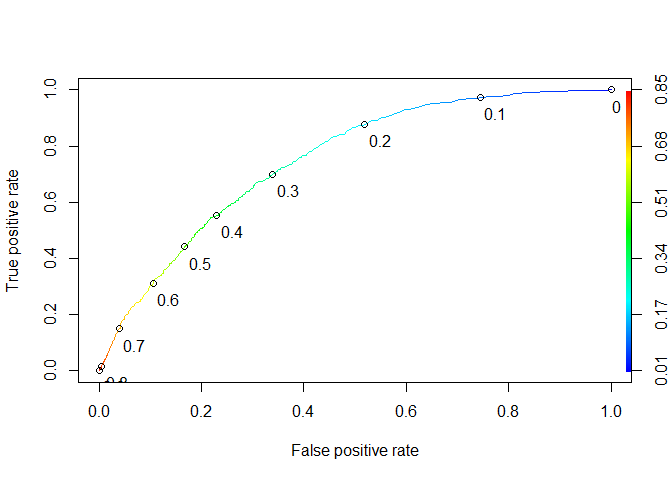
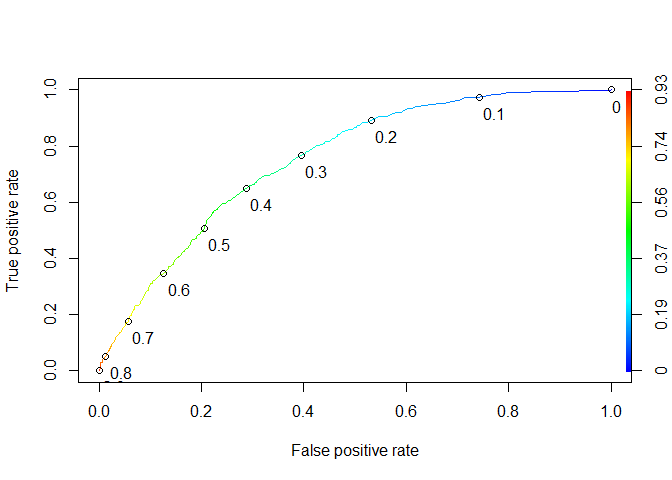
Bug fix

diff --git a/README.md b/README.md
@@ -438,7 +438,7 @@ AUCLog1 <- performance(pred1, measure = 'auc')@y.values[[1]]
 AUCLog1
 ```
 
-    ## [1] 0.7500528
+    ## [1] 0.7471324
 
 Esse não é um resultado ruim, mas vamos ver se podemos fazer melhor com um método diferente.
 
@@ -478,7 +478,7 @@ AUCTree <- performance(pred3, measure = 'auc')@y.values[[1]]
 AUCTree
 ```
 
-    ## [1] 0.7155061
+    ## [1] 0.7115786
 
 O resultado foi pior do que o anterior. E ambos não são resultados satisfatórios, dada a complexidade do nosso modelo de árvore, então, novamente, temos que nos perguntar se não estamos melhor usando o modelo de Regressão Logística mais simples do primeiro modelo.
 
@@ -508,7 +508,7 @@ AUCRF <- performance(pred4, measure = 'auc')@y.values[[1]]
 AUCRF
 ```
 
-    ## [1] 0.7496038
+    ## [1] 0.7510963
 
 Com o esforço extra, ainda assim não obtemos um resultado um tanto melhorado. O modelo de Regressão logística é o melhor desempenho até o momento.
 
@@ -899,7 +899,7 @@ logLik(modelo.completo)
 logLik(LogisticModel.1)
 ```
 
-    ## 'log Lik.' -813.27 (df=14)
+    ## 'log Lik.' -795.2899 (df=14)
 
 ``` r
 logLik(LogisticModel.3)
@@ -919,7 +919,7 @@ extractAIC(modelo.completo)
 extractAIC(LogisticModel.1)
 ```
 
-    ## [1]   14.00 1654.54
+    ## [1]   14.00 1618.58
 
 ``` r
 extractAIC(LogisticModel.3)
@@ -949,8 +949,8 @@ anova(LogisticModel.1,LogisticModel.3)
     ##     serasa_commercial_debts + serasa_protests + marital_status + 
     ##     monthly_payment + purpose + education_level
     ##   Resid. Df Resid. Dev Df Deviance
-    ## 1      1234     720.54            
-    ## 2      1234    1370.45  0  -649.91
+    ## 1      1234     714.58            
+    ## 2      1234    1370.45  0  -655.87
 
 Existem diferenças entre os modelos, então ficamos com aquele com mais parâmetros, o modelo 1, o mais complexo, não podemos abandonar ele pelo mais simples, ja que ele explica muita coisa que o modelo 2 mais simples não deu conta de explicar, mas não podemos esquecer que:
 
@@ -1131,15 +1131,15 @@ coefficients(LogisticModel.1) * 20/log(2)
 ```
 
     ##              (Intercept)                      age           monthly_income 
-    ##            -3.243942e+01             3.198618e+01            -2.702324e+02 
+    ##            -2.958275e+01             2.036554e+01            -5.951529e-01 
     ##         collateral_value              loan_amount   collateral_debt_amount 
-    ##            -2.188574e+03             3.408626e+01            -8.703873e+04 
+    ##             3.774969e+01            -4.555515e+00            -6.483539e+04 
     ##       serasa_restriction serasa_dishonored_checks     serasa_expired_debts 
-    ##            -1.996582e+01            -4.392602e+02            -3.965658e+02 
+    ##            -5.950905e+00            -4.307298e+02            -4.542833e+02 
     ##     serasa_banking_debts  serasa_commercial_debts          serasa_protests 
-    ##            -5.059458e+01            -4.212423e+00             9.623641e+00 
+    ##            -7.476984e+01            -1.834886e+01            -4.270302e+02 
     ##          monthly_payment                  purpose 
-    ##             6.952592e+01             3.049794e-01
+    ##             9.214073e+01            -5.171327e+00
 
 Uma nova abordagem de um novo modelo
 ------------------------------------
@@ -1287,3 +1287,15 @@ eval_model(prediction, credit[,c(1:5,12:14,16)])
     ## -Inf (p-value = 1)
 
 Sim, esse modelo com 98,4% é o modelo ideal para classificação de crédito com garantial de automóvel. Vale lembrar que a cada novo dado o modelo precisa ser treinado novamente par uma melhor previsão.
+
+Conclusão
+---------
+
+Usamos quatro modelos com os seguintes desempenhos:
+
+-------------|-------------------| Modelo | Desempenho
+-------------|-------------------| Regressão Logística | 0.75 Árvore de Regressão | 0.71 floresta aleatória | 0.74 Comparação GLM x RF | 0.65 One level decision trees| 0.98
+
+Concluimos que o algoritmo `One level decision trees` é o melhor.
+
+.
